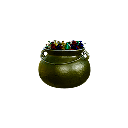
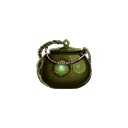
Added more relic images

Changed region(s): [[0.2812, 0.2812, 0.7188, 0.7188]]

diff --git a/src/main/java/loadout/relics/TrashBin.java b/src/main/java/loadout/relics/TrashBin.java
@@ -18,11 +18,14 @@ public class TrashBin extends AbstractCustomScreenRelic<AbstractRelic> {
     public static final String ID = LoadoutMod.makeID("TheBin");
     private static final Texture IMG = (isIsaacMode) ? TextureLoader.getTexture(makeRelicPath("thebin_relic_alt.png")) : TextureLoader.getTexture(makeRelicPath("thebin_relic.png"));
     private static final Texture OUTLINE = (isIsaacMode) ? TextureLoader.getTexture(makeRelicOutlinePath("thebin_relic_alt.png")) : TextureLoader.getTexture(makeRelicOutlinePath("thebin_relic.png"));
-
+    private static final Texture IMG_XGGG_ALT = TextureLoader.getTexture(makeRelicPath("thebin_relic_xggg.png"));
     public static int numLoadoutRelics = 0;
     public static int loadoutRelicsStartIdx = -1;
     public TrashBin() {
         super(ID, IMG, OUTLINE, RelicTier.SPECIAL, LandingSound.FLAT);
+        if (LoadoutMod.isXggg()) {
+            this.img = IMG_XGGG_ALT;
+        }
     }
 
     @Override

diff --git a/src/main/java/loadout/relics/CardPrinter.java b/src/main/java/loadout/relics/CardPrinter.java
@@ -29,11 +29,14 @@ public class CardPrinter extends AbstractCardScreenRelic {
     public static final String ID = LoadoutMod.makeID("CardPrinter");
     private static final Texture IMG = (isIsaacMode) ? TextureLoader.getTexture(makeRelicPath("printer_relic_alt.png")): TextureLoader.getTexture(makeRelicPath("printer_relic.png"));
     private static final Texture OUTLINE = (isIsaacMode) ? TextureLoader.getTexture(makeRelicOutlinePath("printer_relic_alt.png")) : TextureLoader.getTexture(makeRelicOutlinePath("printer_relic.png"));
-
+    private static final Texture IMG_XGGG_ALT = TextureLoader.getTexture(makeRelicPath("chest_relic_xggg.png"));
 
 
     public CardPrinter() {
         super(ID, IMG, OUTLINE, RelicTier.SPECIAL, LandingSound.CLINK, GCardSelectScreen.CardDisplayMode.OBTAIN);
+        if (LoadoutMod.isXggg()) {
+            this.img = IMG_XGGG_ALT;
+        }
     }
 
     @Override

diff --git a/src/main/java/loadout/relics/BlightChest.java b/src/main/java/loadout/relics/BlightChest.java
@@ -20,9 +20,13 @@ public class BlightChest extends AbstractCustomScreenRelic<AbstractBlight>{
     private static final String RESDIR = "chest_relic" + ".png";
     public static final Texture IMG = TextureLoader.getTexture(makeRelicPath(RESDIR));
     private static final Texture OUTLINE = TextureLoader.getTexture(makeRelicOutlinePath(RESDIR));
+    private static final Texture IMG_XGGG_ALT = TextureLoader.getTexture(makeRelicPath("chest_relic_xggg.png"));
 
     public BlightChest() {
         super(ID, IMG, OUTLINE, RelicTier.SPECIAL, LandingSound.HEAVY);
+        if (LoadoutMod.isXggg()) {
+            this.img = IMG_XGGG_ALT;
+        }
     }
 
     @Override
